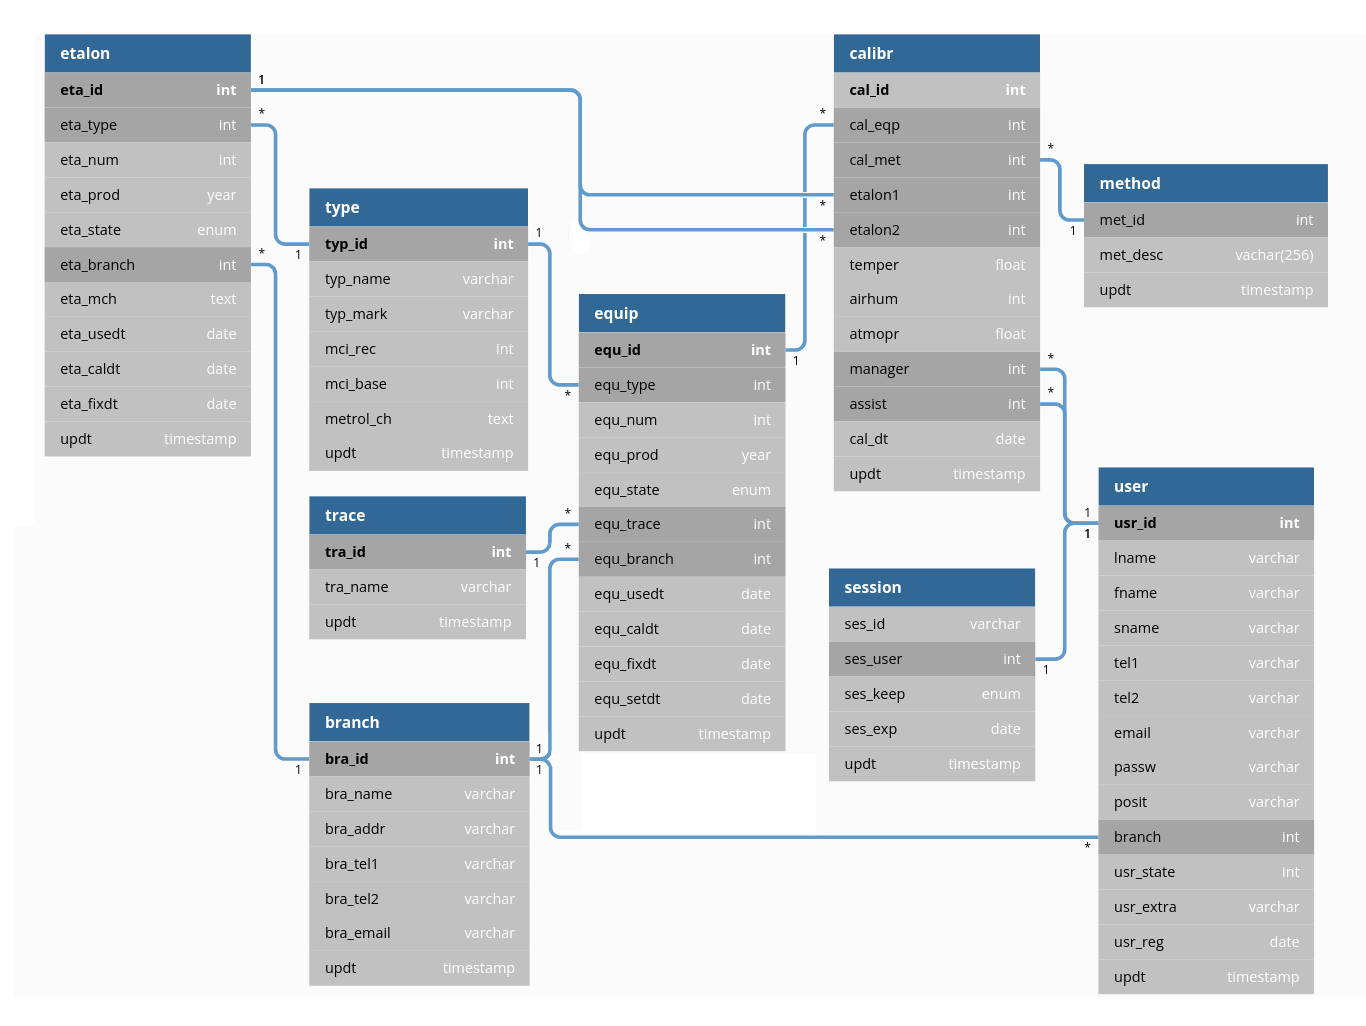
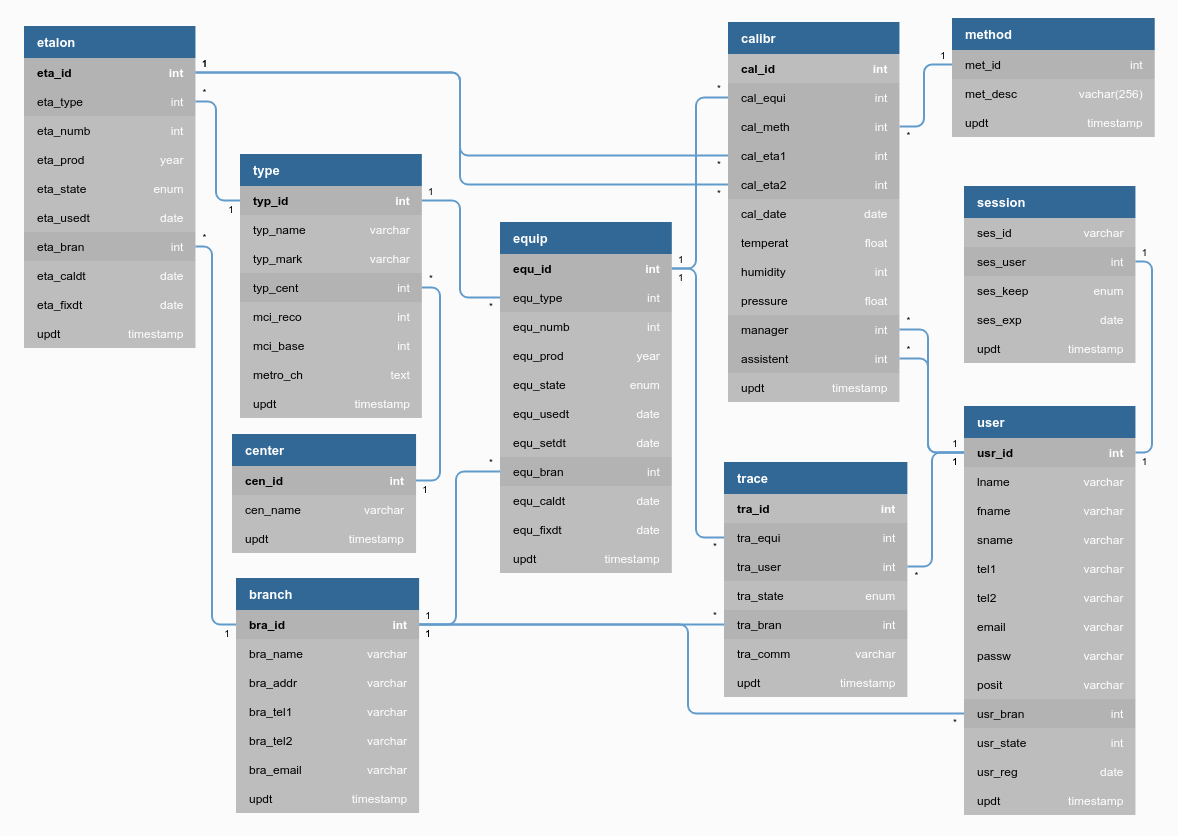
some changes

Changed region(s): [[0.0, 0.0, 1.0, 0.9952]]

diff --git a/db_project/dbdiagram_code/README.md b/db_project/dbdiagram_code/README.md
@@ -1,0 +1,128 @@
+
+```sql
+// medb - Measuring Equipment DataBase
+
+
+Table equip {                                    // measuring EQUIPment
+  equ_id        int   [pk, increment]            // id обладнання (unsigned int: up to 16_777_215)
+  equ_type      int   [ref: > type.typ_id]       // id обладнання (назва, маркировка)
+  equ_numb      int                              // заводський номер
+  equ_prod      year                             // рік виробництва (випуску)
+  equ_state     enum('O','P','X')                // Основний / Резервний / Виведений з експлуатації
+  equ_usedt     date                             // дата введення в експлуатацію (взяття на баланс)
+  equ_setdt     date                             // дата встановлення на метеостанцію (змінюється після калібрування?)
+  equ_bran      int   [ref: > branch.bra_id]     // id метео-станції (замовник)
+  equ_caldt     date                             // дата останнього калібрування
+  equ_fixdt     date                             // дата останнього ремонту (коли Виведений з експлуатації то це дата списання)
+  updt          timestamp                        // дата оновлення інформації
+}
+
+
+Table etalon {                                  // Eталонні ЗВТ, які перебувають в експлуатації ЦГО
+  eta_id        int    [pk, increment]          // id еталона (unsigned int: up to 16_777_215)5
+  eta_type      int    [ref: > type.typ_id]     // id > назва еталона, маркировка
+  eta_numb      int                             // заводський номер
+  eta_prod      year                            // рік випуску
+  eta_state     enum('O','X')                   // Основний / Виведений з експлуатації
+  eta_usedt     date                            // дата введення в експлуатацію (взяття на баланс)
+  eta_bran      int   [ref: > branch.bra_id]    // id метео-станції (замовник)
+  eta_caldt     date                            // дата калібрування
+  eta_fixdt     date                            // дата останнього ремонту (коли Виведений з експлуатації то це дата списання)
+  updt          timestamp                       // дата оновлення
+}
+
+
+Table type {                                     // TYPEs of equipment
+  typ_id        int      [pk, increment]         // id типу
+  typ_name      varchar                          // назва гігрометр / анемометр / термометр
+  typ_mark      varchar                          // маркировка М-19, ГС-210 / У-5, АСО-3 / КШ 14/23 (ТЛ-50)
+  typ_cent      int      [ref: > center.cen_id]  // простежуваність до еталону (центру)
+  mci_reco      int                              // МКІ міжкалібрувальний інтервал рекомендований, роки
+  mci_base      int                              // МКІ міжкалібрувальний інтервал базовий, роки
+  metro_ch      text                             // METROlogical CHaracteristics - Метрологічні характеристики обладнання
+  updt          timestamp                        // дата оновлення
+  Indexes {
+    (typ_name, typ_mark)   [unique]
+  }
+}
+
+
+Table method {                                   // методики
+  met_id        int                              // id методу
+  met_desc      vachar(256)                      // опис
+  updt          timestamp                        // дата оновлення
+}
+
+
+Table calibr {                                   // калібрування "calibration"
+  cal_id        int  [pk, increment]             // Реєстраційний номер з префіксом "99-04-32"
+  cal_equi      int  [ref: > equip.equ_id]       // > назва, тип, зав/сер номер
+  cal_meth      int  [ref: > method.met_id]      // методика
+  cal_eta1      int  [ref: > etalon.eta_id]      // еталон 1
+  cal_eta2      int  [ref: > etalon.eta_id]      // еталон 2 (для гигрометрів, другий термометр)
+  cal_date      date                             // CALibration DaTe дата проведення калібрування
+                                                 // Умови проведення калібрування - "Calibration conditions"
+  temperat      float                            // TEMPERature температура  26.80С
+  humidity      int                              // AIR HUMidity відносна вологість повітря  30%  ""
+  pressure      float                            // ATMOspheric PRessure - атмосферний тиск  98.7 кПа
+  manager       int [ref: > user.usr_id]         // MANAGER - керівник/менеджер - той, що прийняв і підписав
+  assistent     int [ref: > user.usr_id]         // laboratory ASSISTant - той, що калібрував
+  updt          timestamp                        // дата оновлення даних
+}
+
+
+Table trace {                                    // Переміщення обладнання
+  tra_id        int    [pk, increment]           // id транзакції
+  tra_equi      int    [ref: > equip.equ_id]     // id обладнання
+  tra_user      int    [ref: > user.usr_id]      // хто? (користувач)
+  tra_state     enum('S','B','O','K','P')        // дія: постановка / відправлення / отримання / калібрування / ремонт
+  tra_bran      int    [ref: > branch.bra_id]    // куди? (підрозділ призначення)
+  tra_comm      varchar                          // додатково
+  updt          timestamp                        // дата оновлення даних
+}
+
+
+Table center {                                   // standardization CENTER - Центр стандартизації (простежуваність до еталону)
+  cen_id        int    [pk, increment]           // TRACEability ID - ідентифікатор центра
+  cen_name      varchar                          // NAME of Calibration centre - Назва калібрувального центру (Czech Calibration Station of Current Meters, ДП «УКРМЕТРТЕСТСТАНДАРТ»,+Харків})
+  updt          timestamp                        // дата оновлення
+}
+
+
+Table branch {                                   // Centers for Hydrometeorology
+  bra_id      int     [pk]                       // id (dd00 - центральні, dddd - їх підрозділи)
+  bra_name    varchar                            //
+  bra_addr    varchar                            //
+  bra_tel1    varchar                            //
+  bra_tel2    varchar                            //
+  bra_email   varchar                            //
+  updt        timestamp                          // дата оновлення
+}
+
+
+Table user {
+  usr_id       int      [pk, increment]         //
+  lname        varchar                          // Last NAME
+  fname        varchar                          // First NAME
+  sname        varchar                          // SurNAME
+  tel1         varchar                          //
+  tel2         varchar                          //
+  email        varchar                          //
+  passw        varchar                          // PASSWord
+  posit        varchar                          // POSITion - посада
+  usr_bran     int      [ref: > branch.bra_id]  // - підрозділ
+  usr_state    int                              // стан
+  usr_reg      date                             //
+  updt         timestamp                        // дата оновлення
+}
+
+
+Table session {                                 // Таблиця "живих" сесій (історія усіх сесій - у лог-файл)
+  ses_id       varchar                          // не unique - неймовірно, якщо співпаде, але якщо так, то все одно, окремо від користувача не береться
+  ses_user     int      [unique, ref: - user.usr_id] //
+  ses_keep     enum(0,1)                        // опція "запам'ятати мене" продовжує expire на 2 тижні при користуванні, зкидується розлогинуванням
+  ses_exp      date                             // session "EXPiration date"
+  updt         timestamp                        // дата оновлення
+}
+
+```

diff --git a/db_project/README.md b/db_project/README.md
@@ -8,31 +8,30 @@
 
 ![medb.png](medb.png "Схема MEdb")
 
-<https://dbdiagram.io/>
+<https://dbdiagram.io/> | [Код для побудови діаграми](dbdiagram_code)
 
 ## Опис
 
-### equip - таблиця
+### equip
 
 measuring EQUIPment - вимірювальне обладнання
 
-```sql
-Table equip {                                    // measuring EQUIPment
-  equ_id        int   [pk, increment]            // id обладнання (unsigned int: up to 16_777_215)
-  equ_type      int   [ref: > type.typ_id]       // id > назва обладнання, маркировка
-  equ_num       int                              // заводський номер
-  equ_prod      year                             // рік випуску
-  equ_state     enum('O','P','X')                // Основний/Резервний/Виведений з експлуатації
-  equ_trace     int   [ref: > trace.tra_id]      // простежуваність до еталону ? - тут, чи у equ? "traceability"
-  equ_branch    int   [ref: > branch.bra_id]     // id метео-станції (замовник)
-  equ_usedt     date                             // дата введення в експлуатацію
-  equ_caldt     date                             // дата калібрування
-  equ_fixdt     date                             // дата останнього ремонту
-  equ_setdt     date                             // дата встановлення на метеостанцію
-  updt          timestamp                        // дата оновлення
-}
-}
+```mysql
+CREATE TABLE `equip` (
+  `equ_id`    int PRIMARY KEY AUTO_INCREMENT,
+  `equ_type`  int,
+  `equ_numb`  int,
+  `equ_prod`  year,
+  `equ_state` enum,
+  `equ_usedt` date,
+  `equ_setdt` date,
+  `equ_bran`  int,
+  `equ_caldt` date,
+  `equ_fixdt` date,
+  `updt`      timestamp
+);
 ```
+
 | поле | опис |
 | -----| ---- |
 | `equ_id`     | id обладнання (unsigned int: up to 16_777_215) |
@@ -49,6 +48,34 @@ Table equip {                                    // measuring EQUIPment
 | `updt`       | дата оновлення |
 
 
+### session
+
+Таблиця лише "живих" сесій. Також сесії (login/logout) синхронно записуються у лог-файл, де і залишаються назавжди.
+`login` - записує сесію користувача у цю таблицю, `logout` - видаляє.
+
+```mysql
+CREATE TABLE session (
+  `ses_id`     varchar(36),
+  `ses_user`   smallint(5) unsigned,
+  `ses_keep`   enum(1,2),
+  `ses_exp`    date,
+  `updt`       timestamp,
+  UNIQUE (`ses_user`)
+);
+```
+- **ses_id** - id сесії, `12002e8a-6043-4b56-a748-dcf141f7b88f`
+Не unique - неймовірно, якщо співпаде, але якщо так, то все одно, вибираємо запис по користувачу
+
+- **ses_user** - id користувача, починаємо від `1001`
+unique, бо можлива лише одна сесія для одного користувача. Якщо користувач робить `login`, з іншого пристрою - його остання сесія видаляється.
+
+- **ses_keep** - опція "запам'ятати мене", `0` - ні, `1` - так
+При '1' продовжує строк дії сесії на тиждень при кожній перевірці сесії. Зкидується в '0' через тиждень неактивності або `logout`.
+
+- **ses_exp** - дата до якої дійсна сесія, `2022-02-02`
+якщо раніше не станеться `logout`, що видаляє сесію
+
+- **updt** - час оновлення сесії, `2022-01-28 18:30:54`
 
 
 
